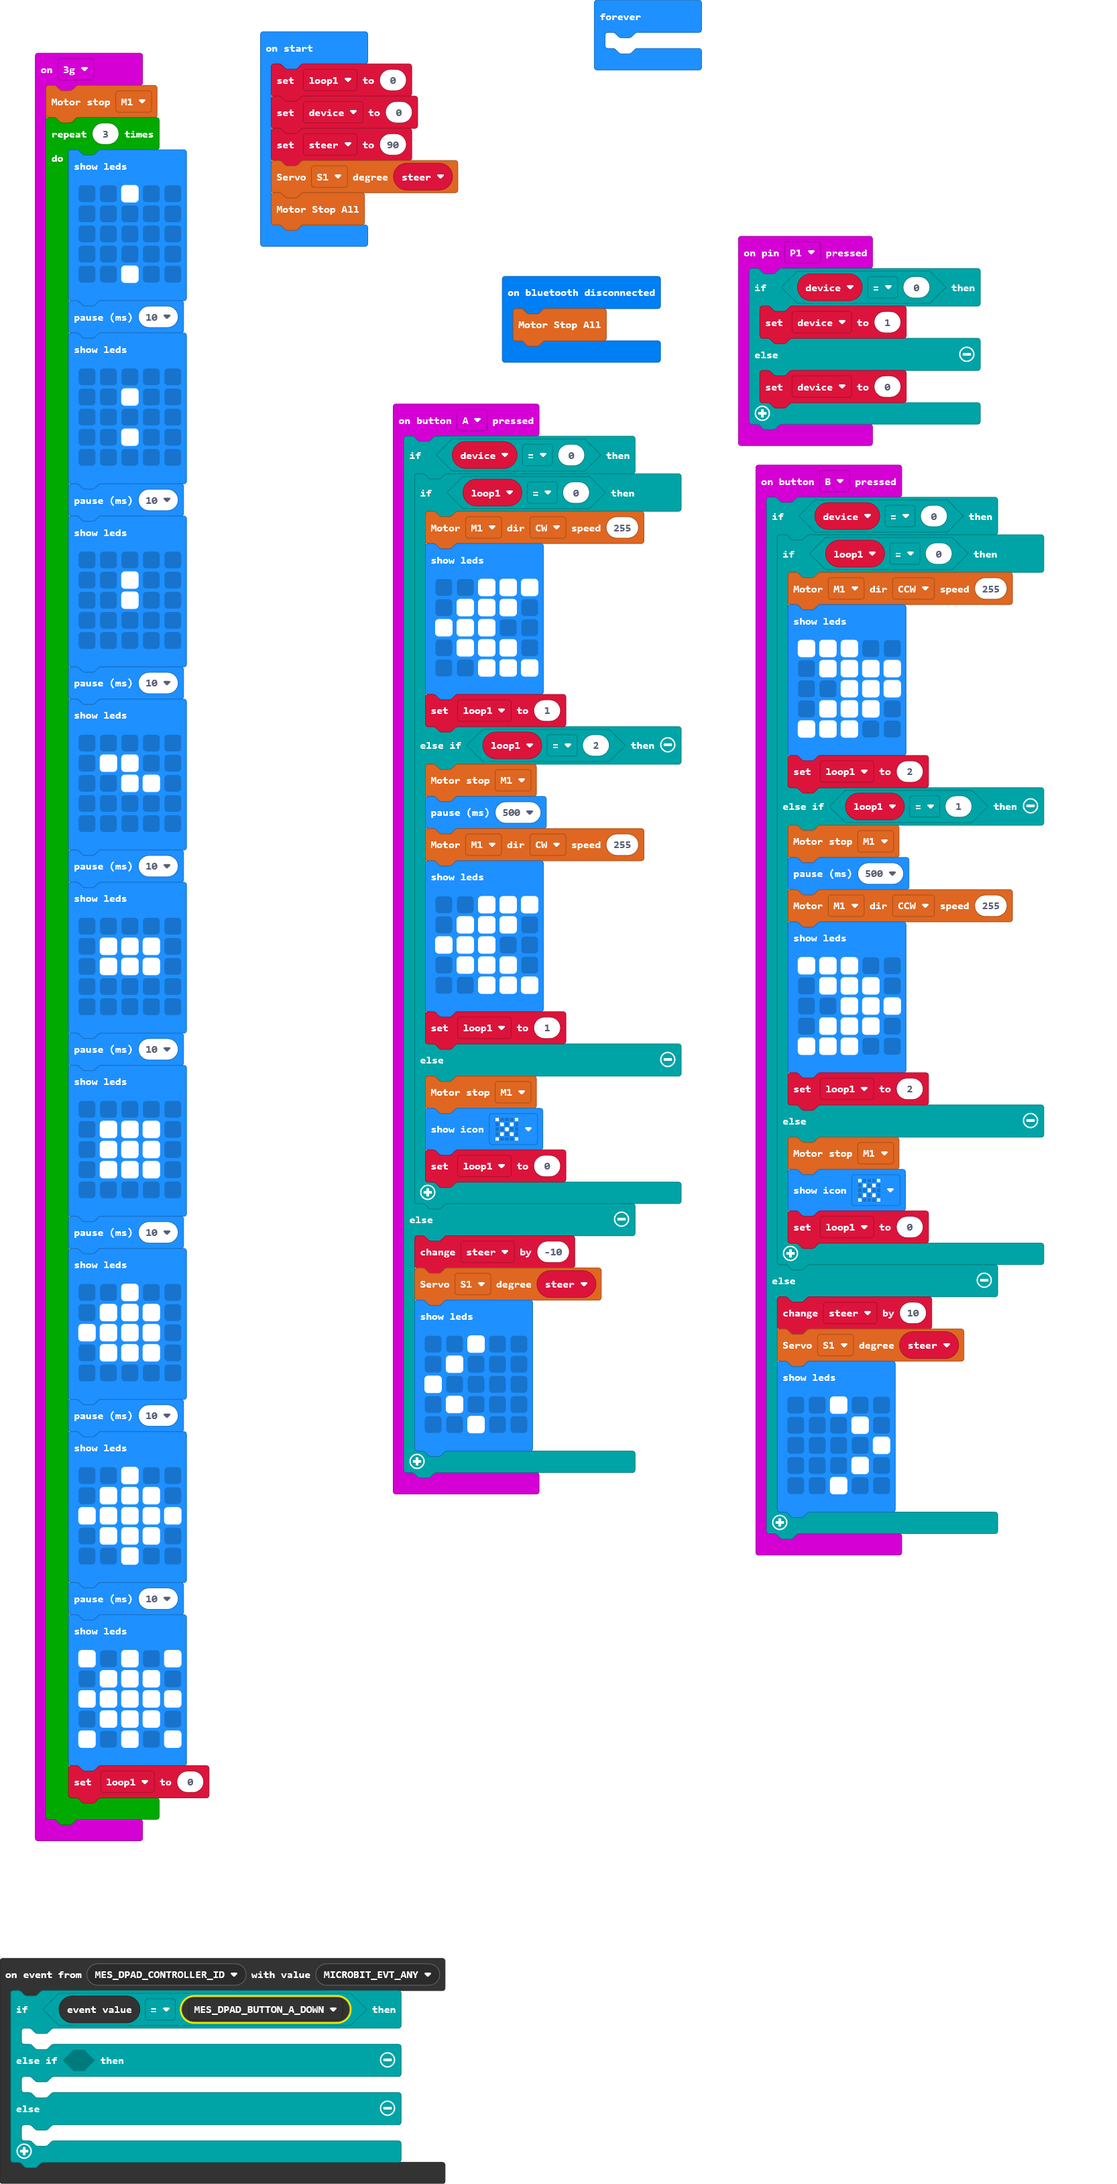
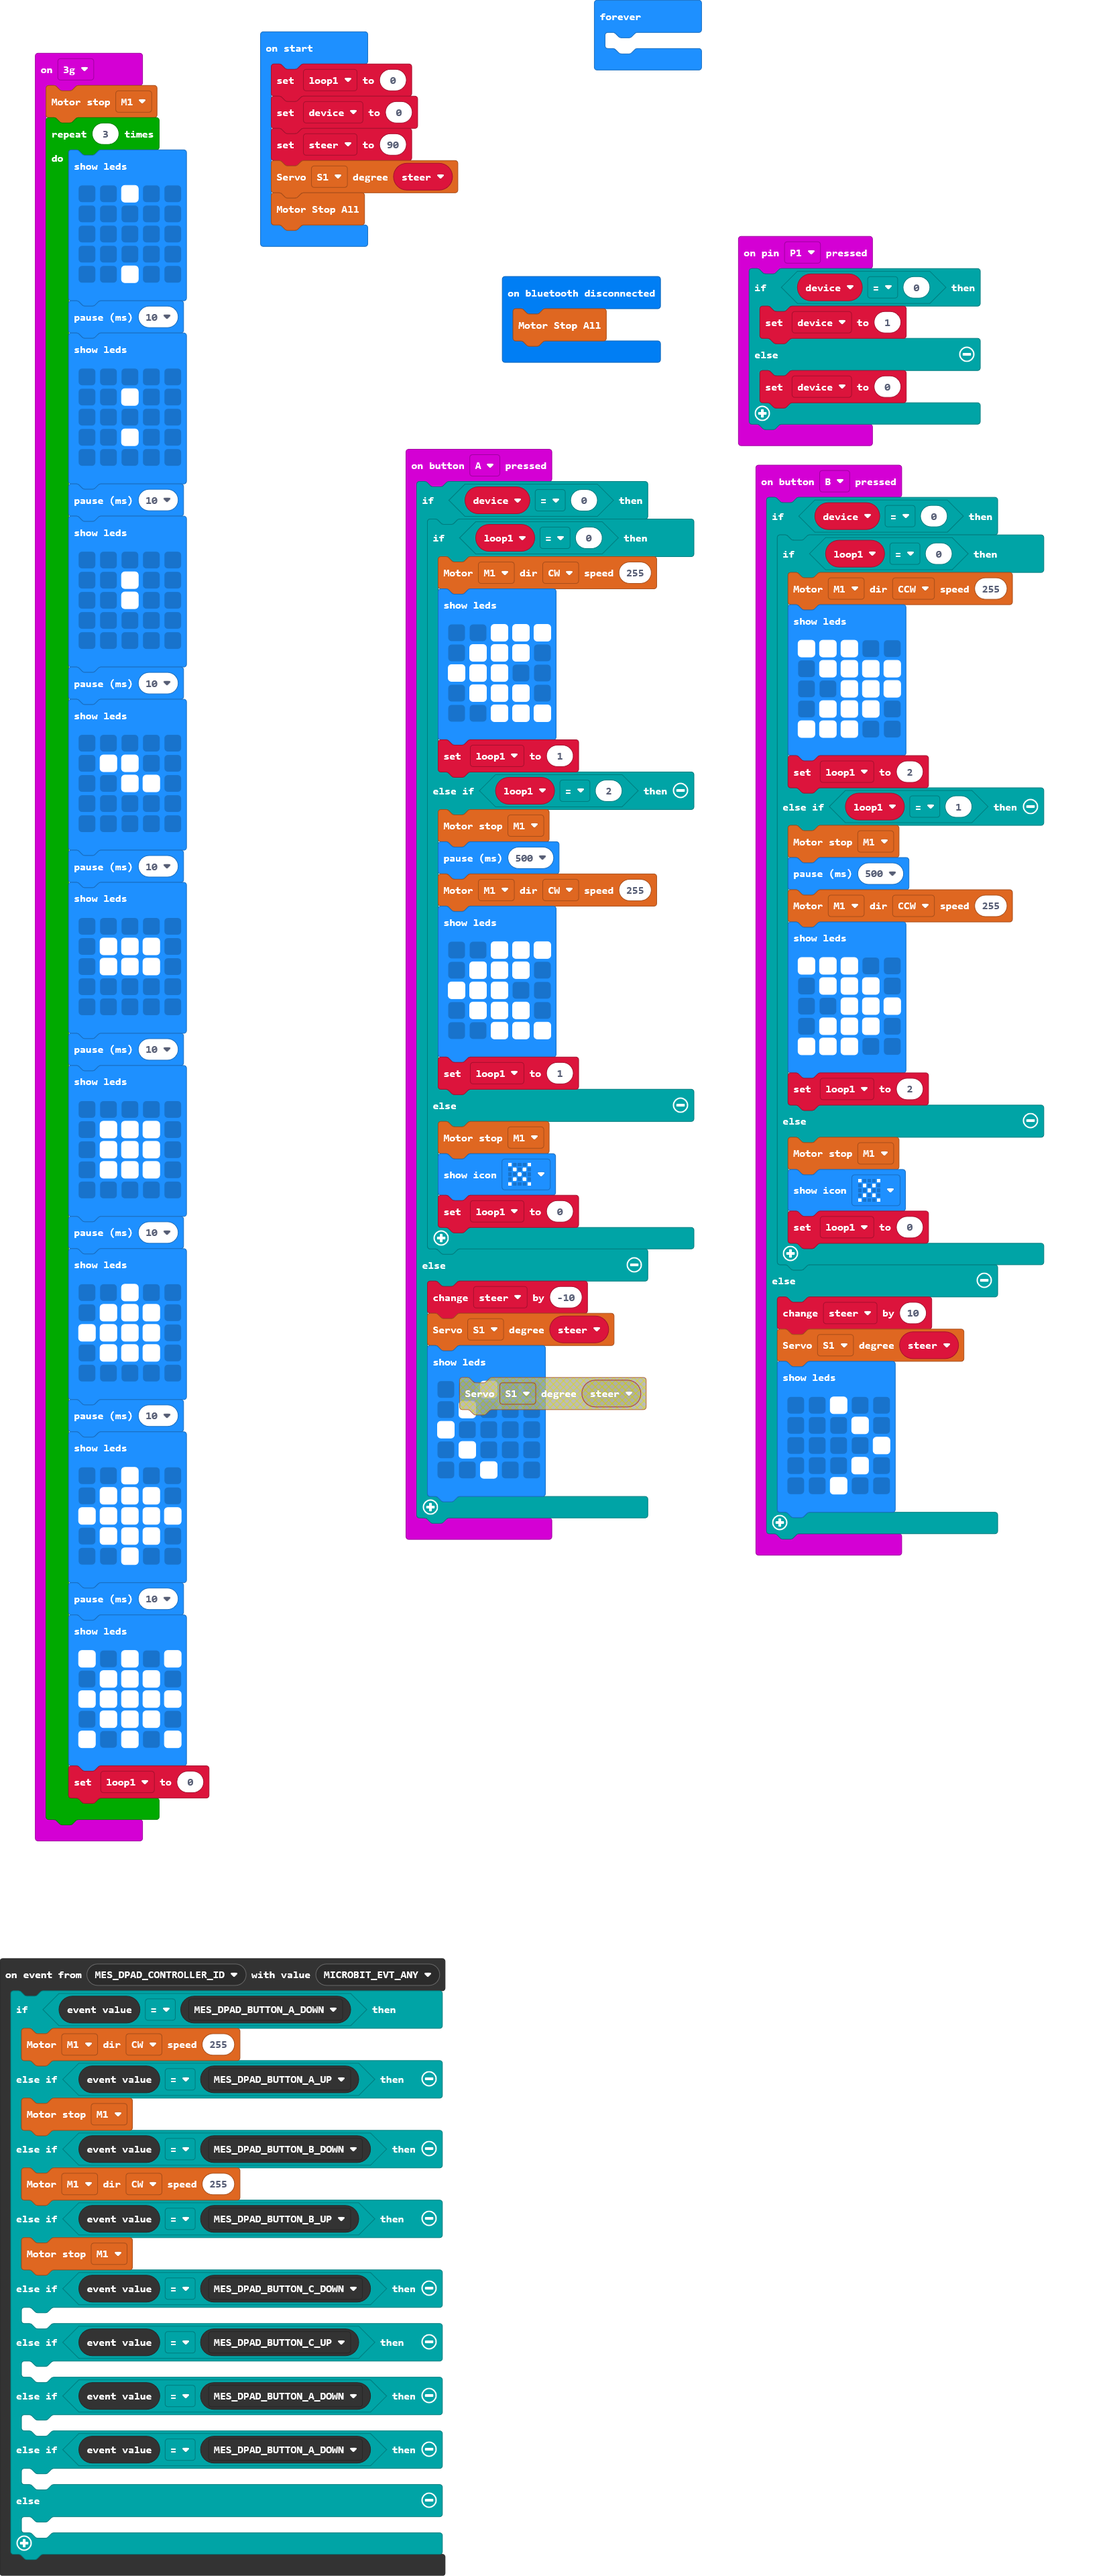
Update main.blocks, main.ts

diff --git a/main.ts b/main.ts
@@ -92,8 +92,20 @@ input.onPinPressed(TouchPin.P1, function () {
 })
 control.onEvent(EventBusSource.MES_DPAD_CONTROLLER_ID, EventBusValue.MICROBIT_EVT_ANY, function () {
     if (control.eventValue() == EventBusValue.MES_DPAD_BUTTON_A_DOWN) {
+        motor.MotorRun(motor.Motors.M1, motor.Dir.CW, 255)
+    } else if (control.eventValue() == EventBusValue.MES_DPAD_BUTTON_A_UP) {
+        motor.motorStop(motor.Motors.M1)
+    } else if (control.eventValue() == EventBusValue.MES_DPAD_BUTTON_B_DOWN) {
+        motor.MotorRun(motor.Motors.M1, motor.Dir.CW, 255)
+    } else if (control.eventValue() == EventBusValue.MES_DPAD_BUTTON_B_UP) {
+        motor.motorStop(motor.Motors.M1)
+    } else if (control.eventValue() == EventBusValue.MES_DPAD_BUTTON_C_DOWN) {
     	
-    } else if (false) {
+    } else if (control.eventValue() == EventBusValue.MES_DPAD_BUTTON_C_UP) {
+    	
+    } else if (control.eventValue() == EventBusValue.MES_DPAD_BUTTON_A_DOWN) {
+    	
+    } else if (control.eventValue() == EventBusValue.MES_DPAD_BUTTON_A_DOWN) {
     	
     } else {
     	
